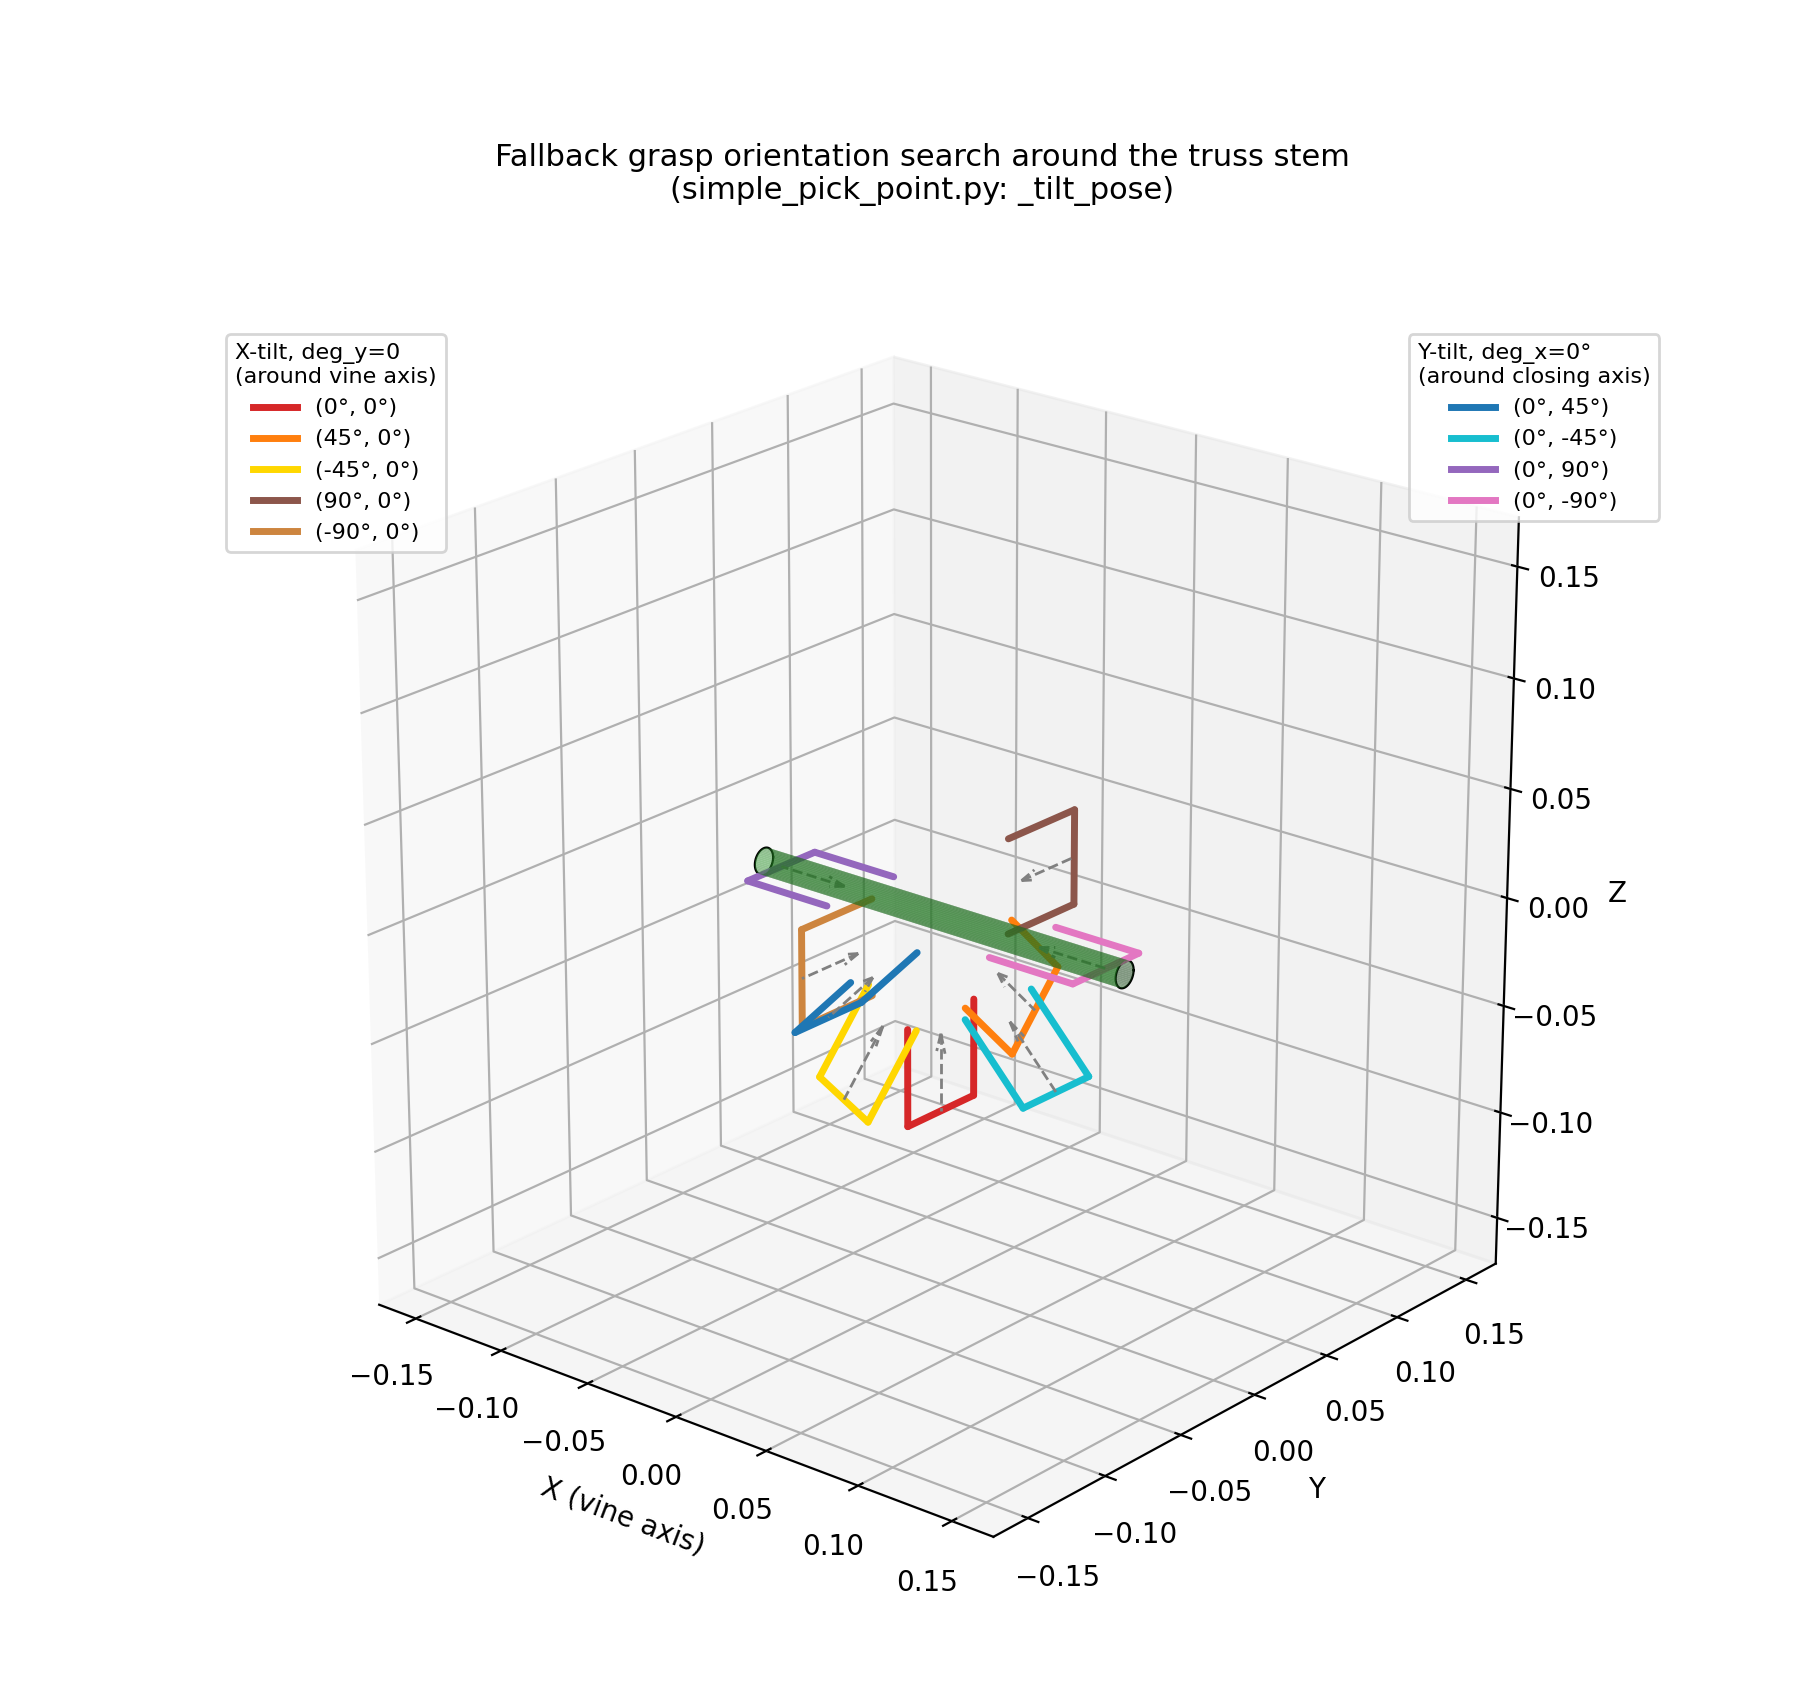
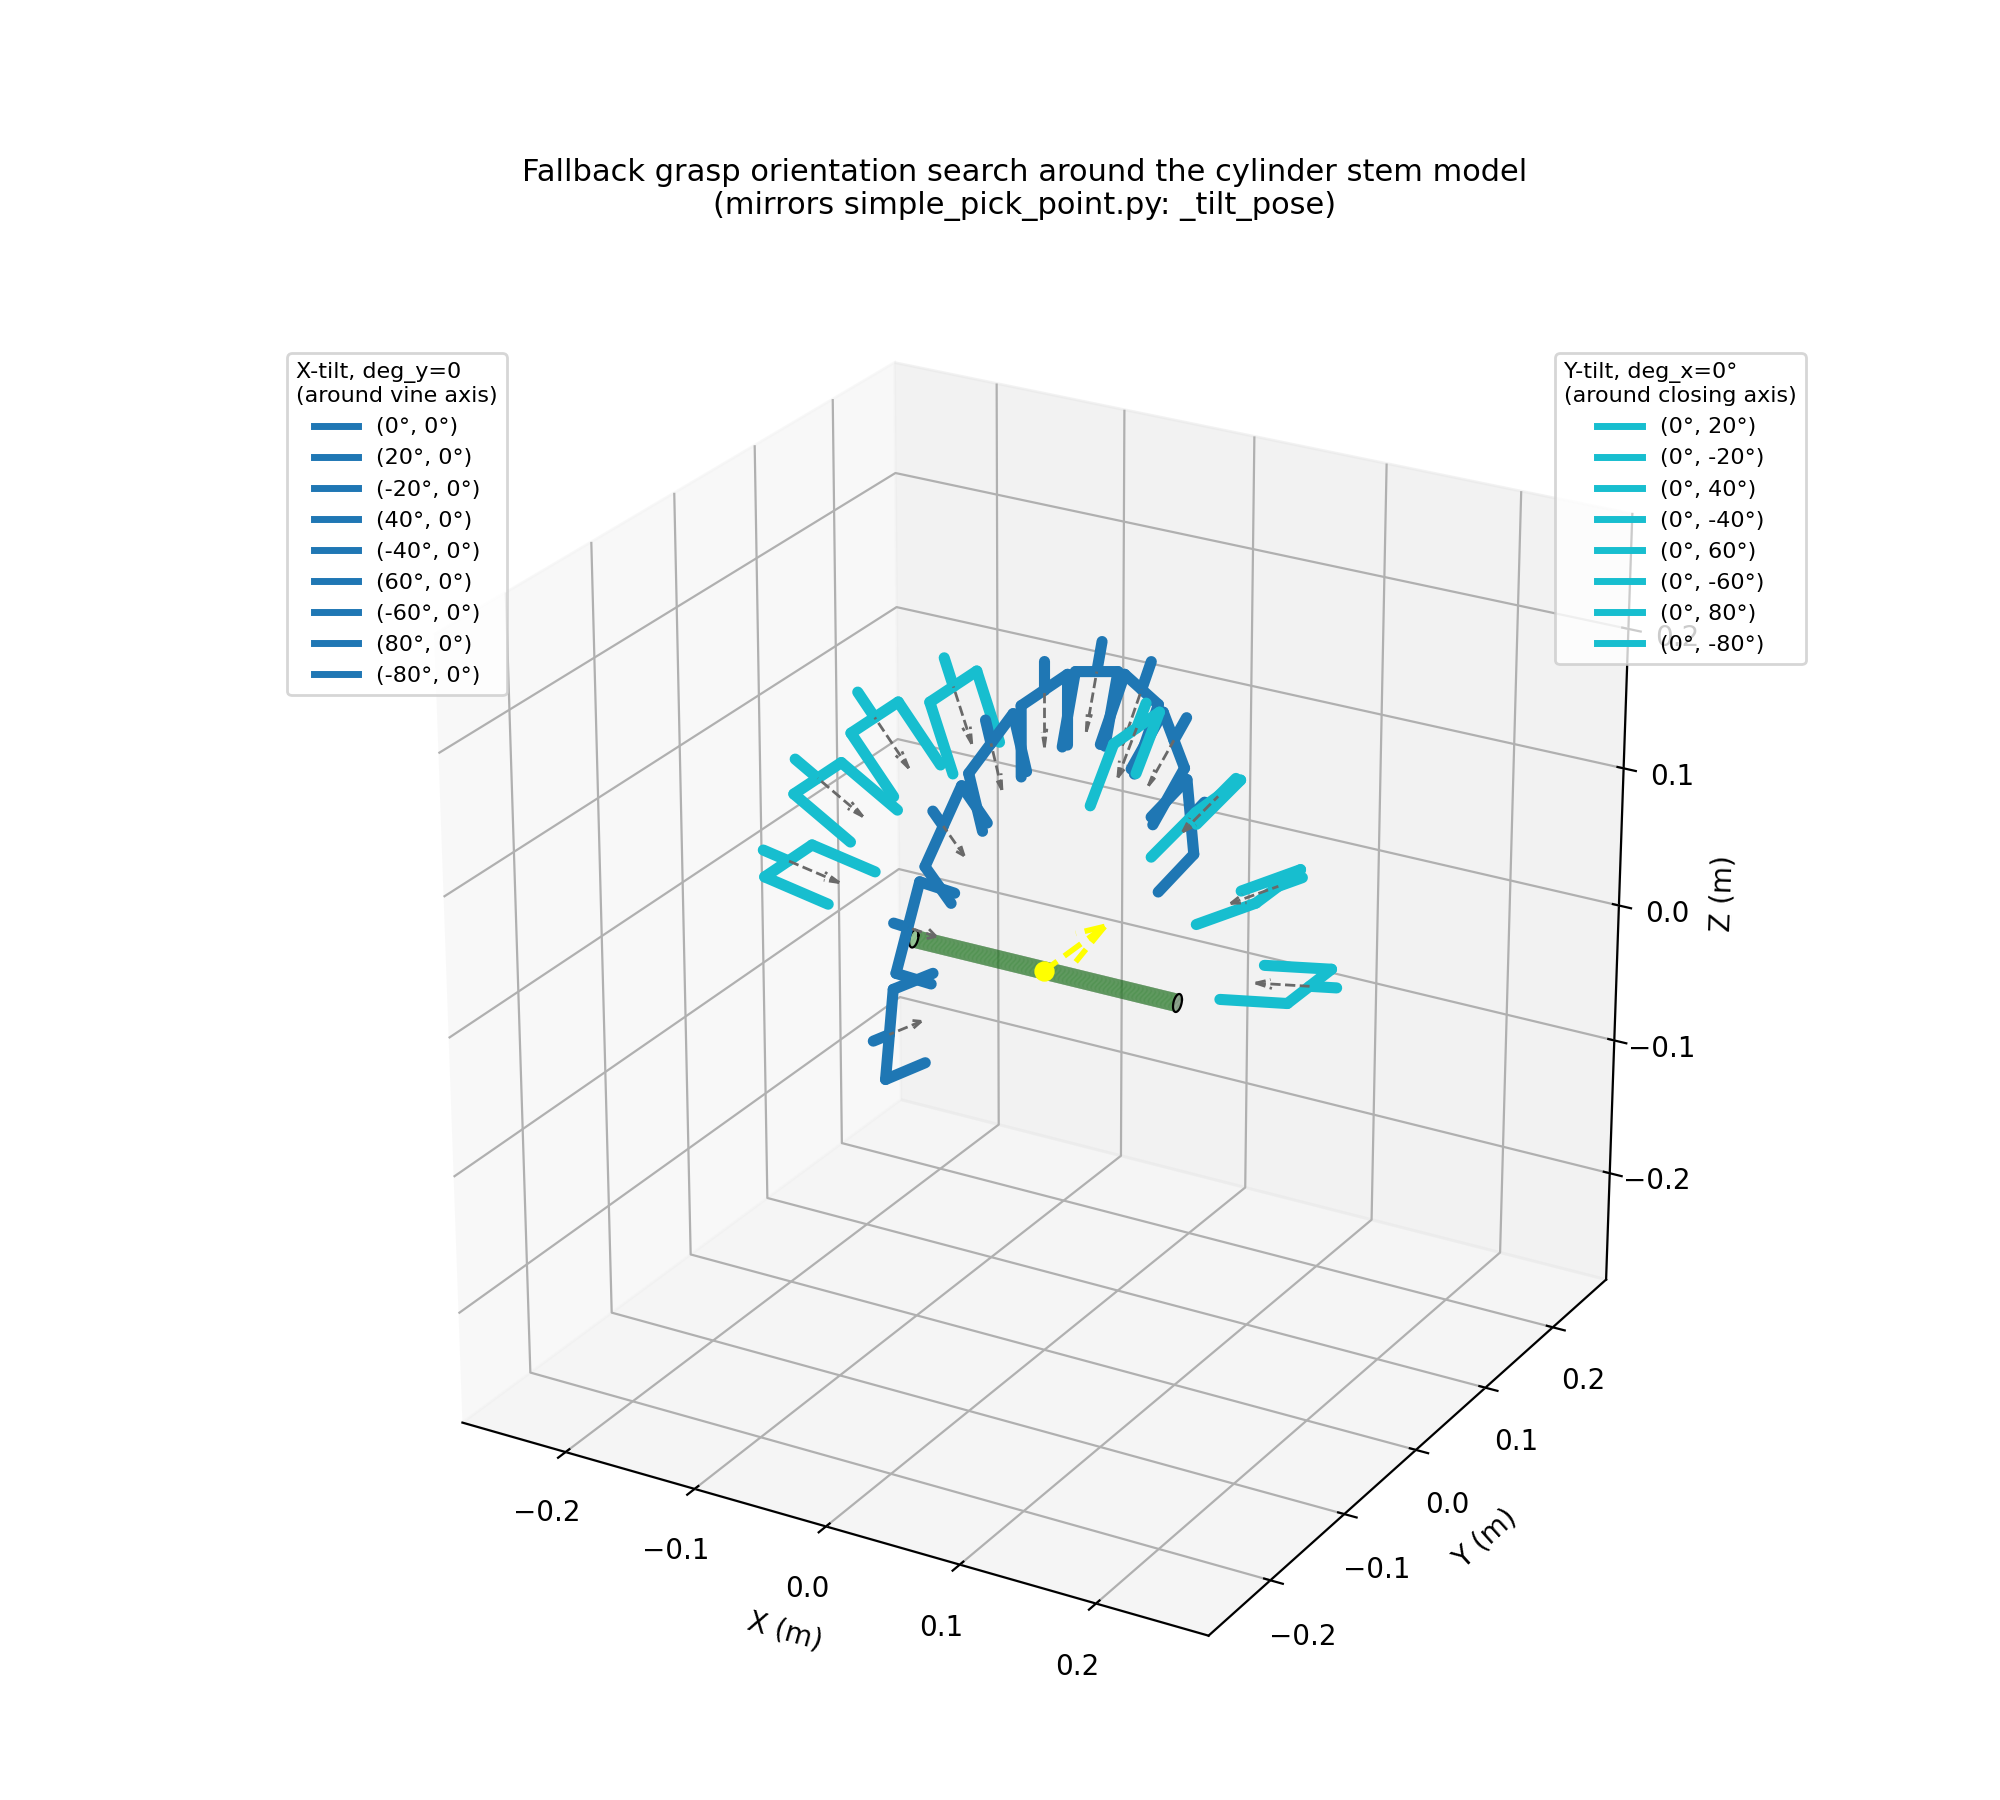
Bump grasp, moveit config and franka_ros pointers; update report figures
- learning_approach_to_robotic_grasping_of_vine_tomatoes: Babuska detector,
  straight-line grasp motion, stricter reachability checks
- panda_moveit_config_vine_tomato: separate finger/TCP launch args, TRAC-IK
- franka_ros_vine_tomato: slimmer finger collision boxes
- Update grasp orientation/tilt figures, add grasp approach sequence figure

diff --git a/report_figures/grasp_tilt_pointcloud.py b/report_figures/grasp_tilt_pointcloud.py
@@ -90,8 +90,11 @@ GRASP_POINT_OVERRIDE = None
 # back to False if that guess is wrong for your actual planning frame.
 FLIP_APPROACH_FOR_DISPLAY = True
 
-TILT_ANGLES_DEG = [0, 30, 60, -30, -60]
-Y_TILT_ANGLES_DEG = [0, 30, 60, -30, -60]
+# Tilt angles (degrees) around vine axis: 0° = top-down, ±90° = horizontal approach
+TILT_ANGLES_DEG = [0, 20, -20, 40, -40, 60, -60, 80, -80]
+# Roll around the (post-X-tilt) gripper-closing axis; stays perpendicular to the stem
+Y_TILT_ANGLES_DEG = [0, 20, -20, 40, -40, 60, -60, 80, -80]
+
 Y_TILT_DEMO_X = 0  # deg_x held fixed while deg_y sweeps
 
 # Combined pitch+roll orientations (deg_x, deg_y), drawn on top of the two
@@ -100,8 +103,8 @@ Y_TILT_DEMO_X = 0  # deg_x held fixed while deg_y sweeps
 #   SHOW_ALL_COMBINATIONS = True ignores this list and instead draws the full
 #   TILT_ANGLES_DEG x Y_TILT_ANGLES_DEG grid, minus the pure-pitch / pure-roll
 #   cases the other two sweeps already cover.
-#COMBO_TILT_ANGLES = []#(30, 30), (30, -30), (-30, 30), (-30, -30)]
-SHOW_ALL_COMBINATIONS = True
+COMBO_TILT_ANGLES = []  # e.g. [(30, 30), (30, -30), (-30, 30), (-30, -30)]
+SHOW_ALL_COMBINATIONS = False
 
 STANDOFF = 0.2
 PRONG_LENGTH = 0.05
@@ -121,7 +124,7 @@ XLIM = None
 YLIM = None
 ZLIM = None
 AXIS_MARGIN_FRAC = 0.05   # applied only to axes left as None
-OUTPUT_PATH = "/tmp/claude-0/-root/3047a74c-ec3a-4b61-bbd6-9cab87991a9a/scratchpad/grasp_tilt_pointcloud.png"
+OUTPUT_PATH = os.path.join(os.path.dirname(os.path.abspath(__file__)), "grasp_tilt_pointcloud.png")
 
 X_TILT_COLOR = "tab:blue"
 Y_TILT_COLOR = "tab:cyan"

diff --git a/report_figures/grasp_tilt_orientations.py b/report_figures/grasp_tilt_orientations.py
@@ -20,6 +20,7 @@ script just floats every fork above the cloud with one flat z-order.
     showing the secondary roll around the closing axis (cyan).
 """
 
+import os
 import numpy as np
 import matplotlib.pyplot as plt
 from matplotlib.lines import Line2D
@@ -36,8 +37,11 @@ STEM_COLOR = "tab:green"
 STEM_ALPHA = 0.5
 
 # Same sweep set as grasp_tilt_pointcloud.py.
-TILT_ANGLES_DEG = [0, 30, 60, -30, -60]
-Y_TILT_ANGLES_DEG = [0, 30, 60, -30, -60]
+# Tilt angles (degrees) around vine axis: 0° = top-down, ±90° = horizontal approach
+TILT_ANGLES_DEG = [0, 20, -20, 40, -40, 60, -60, 80, -80]
+# Roll around the (post-X-tilt) gripper-closing axis; stays perpendicular to the stem
+Y_TILT_ANGLES_DEG = [0, 20, -20, 40, -40, 60, -60, 80, -80]
+
 Y_TILT_DEMO_X = 0  # deg_x held fixed while deg_y sweeps
 
 # Fork geometry -- proportioned to the cylinder above.
@@ -53,7 +57,7 @@ FLIP_APPROACH_FOR_DISPLAY = True
 
 FIGSIZE = (10, 9)
 ELEV_VIEW, AZIM_VIEW = 25, -60
-OUTPUT_PATH = "/tmp/claude-0/-root/3047a74c-ec3a-4b61-bbd6-9cab87991a9a/scratchpad/grasp_tilt_orientations.png"
+OUTPUT_PATH = os.path.join(os.path.dirname(os.path.abspath(__file__)), "grasp_tilt_orientations.png")
 
 X_TILT_COLOR = "tab:blue"
 Y_TILT_COLOR = "tab:cyan"

diff --git a/report_figures/grasp_orientations.py b/report_figures/grasp_orientations.py
@@ -7,6 +7,7 @@ along its approach axis toward the stem.
 Tweak the CONFIG block below to match your report's needs.
 """
 
+import os
 import numpy as np
 import matplotlib.pyplot as plt
 
@@ -37,7 +38,7 @@ PALM_OFFSET = 0.0   # small gap between prong back-ends and the "palm" bar
 
 FIGSIZE = (8, 8)
 ELEV_VIEW, AZIM_VIEW = 22, -60
-OUTPUT_PATH = "/tmp/claude-0/-root/3047a74c-ec3a-4b61-bbd6-9cab87991a9a/scratchpad/grasp_orientations.png"
+OUTPUT_PATH = os.path.join(os.path.dirname(os.path.abspath(__file__)), "grasp_orientations.png")
 
 # ------------------------------------------------------------------------
 

diff --git a/report_figures/grasp_approach_sequence.py b/report_figures/grasp_approach_sequence.py
@@ -66,7 +66,7 @@ FINGERTIPS_ON_PHASE_POINT = True
 DRAW_APPROACH_LINE = True  # dashed guide line through all phase points
 
 FIGSIZE = (10, 9)
-OUTPUT_PATH = "/tmp/claude-0/-root/3047a74c-ec3a-4b61-bbd6-9cab87991a9a/scratchpad/grasp_approach_sequence.png"
+OUTPUT_PATH = os.path.join(os.path.dirname(os.path.abspath(__file__)), "grasp_approach_sequence.png")
 
 # ------------------------------------------------------------------------
 
